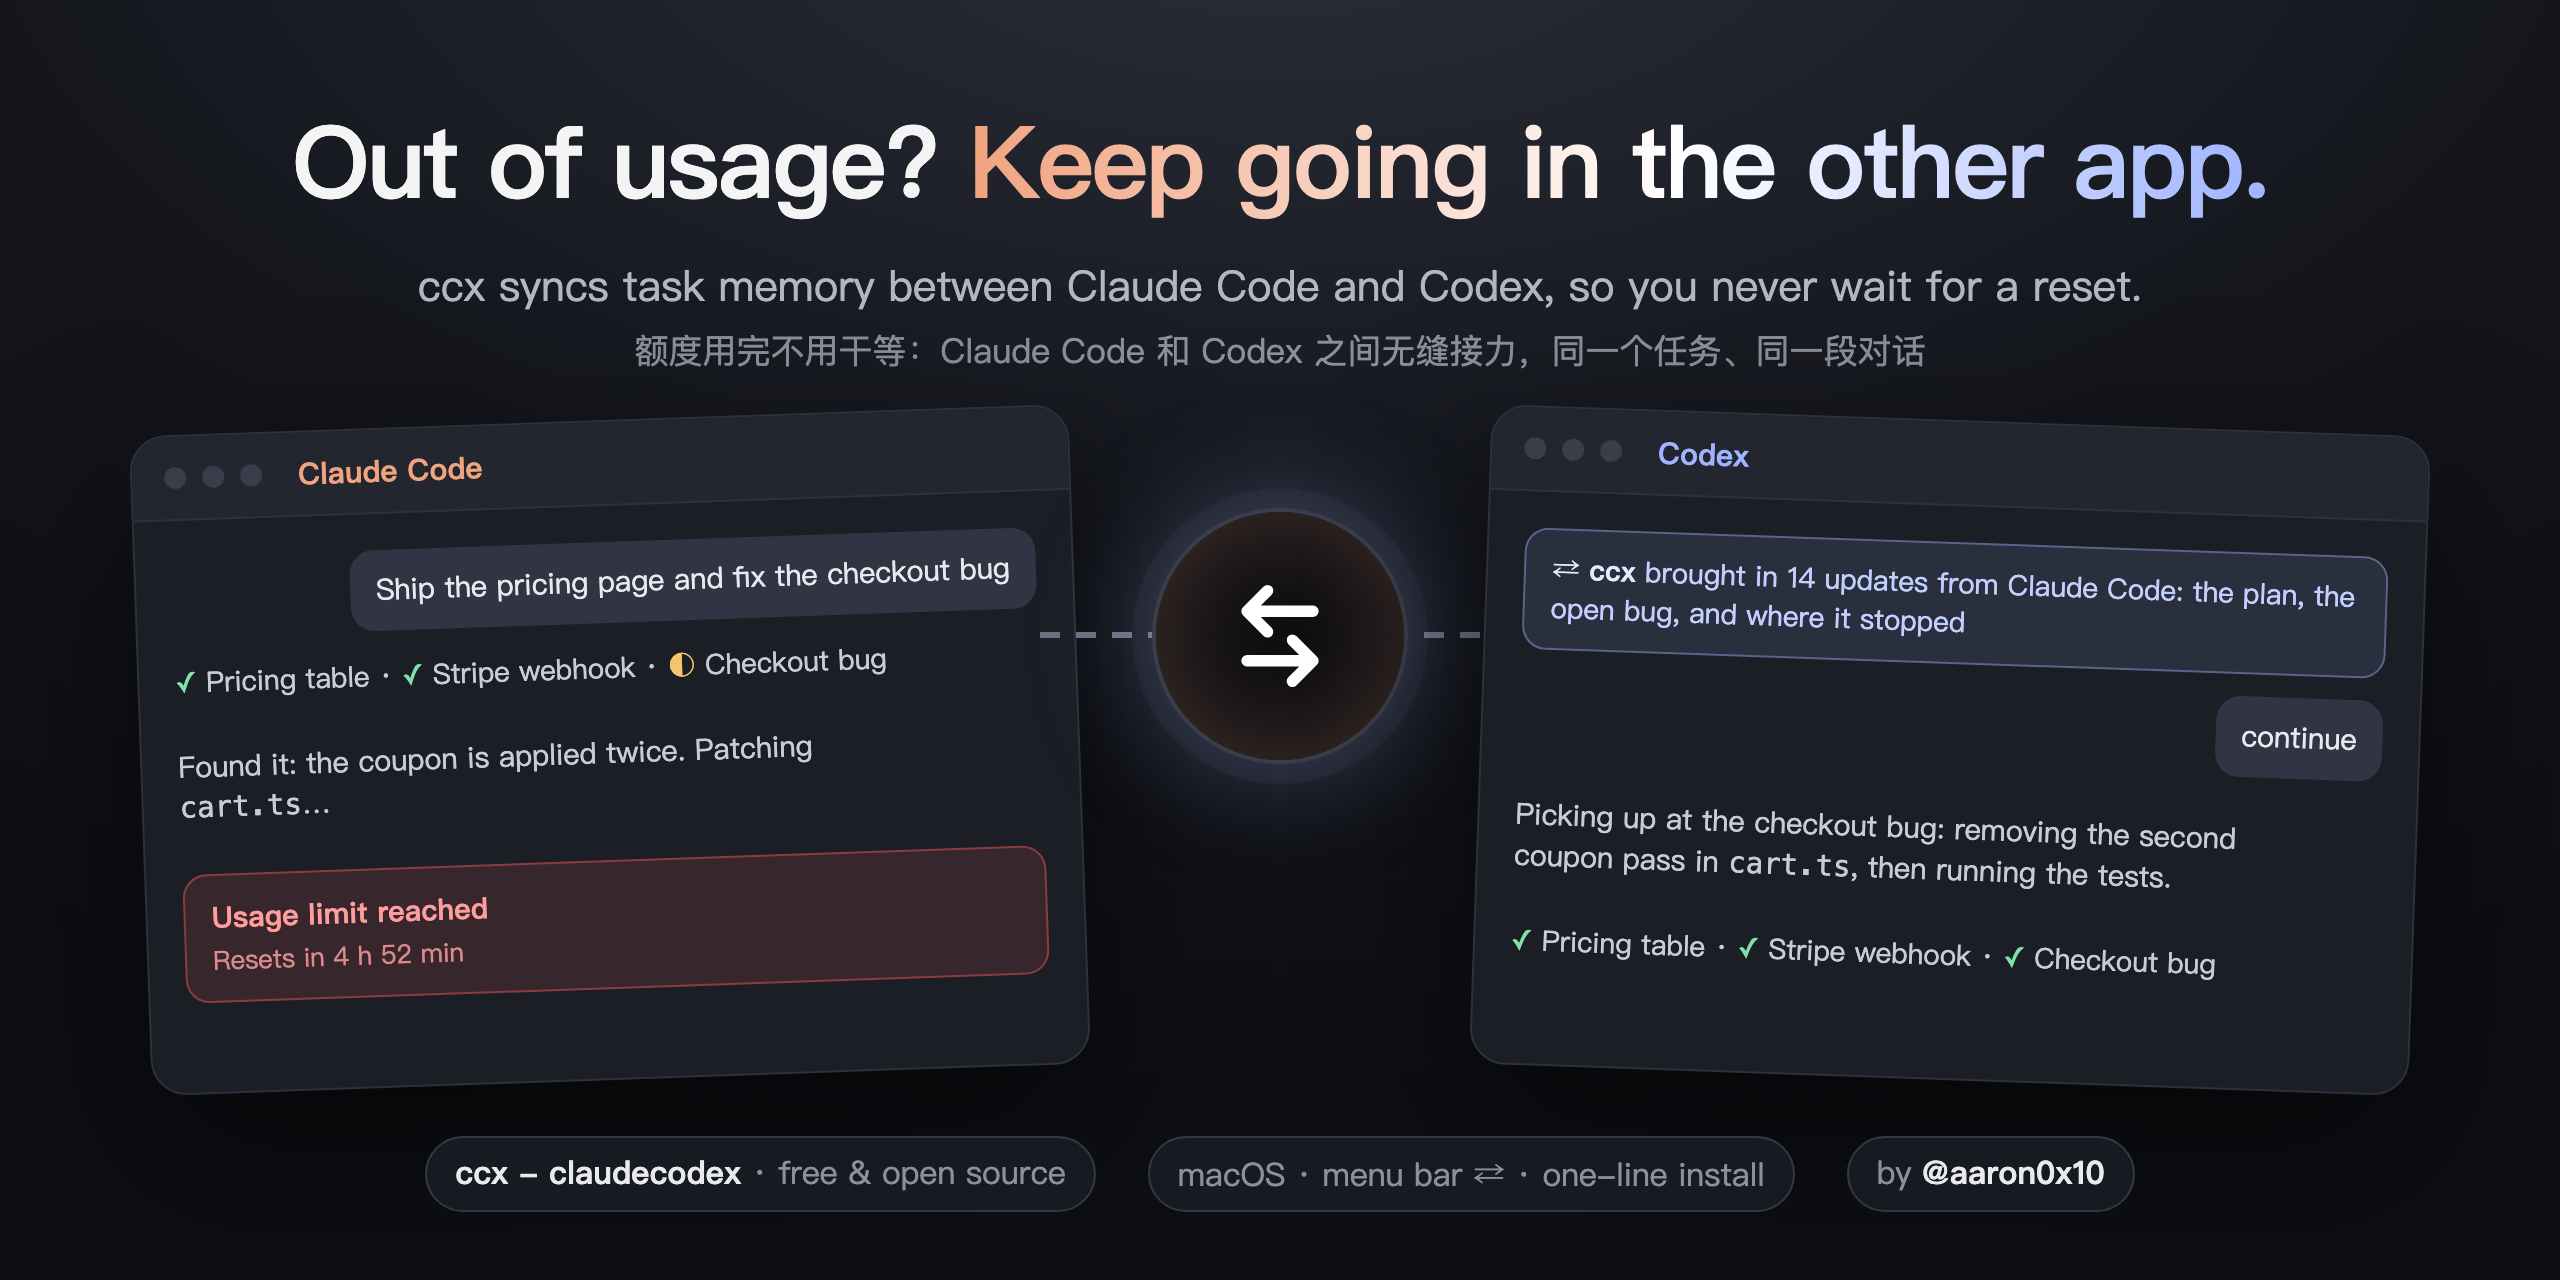
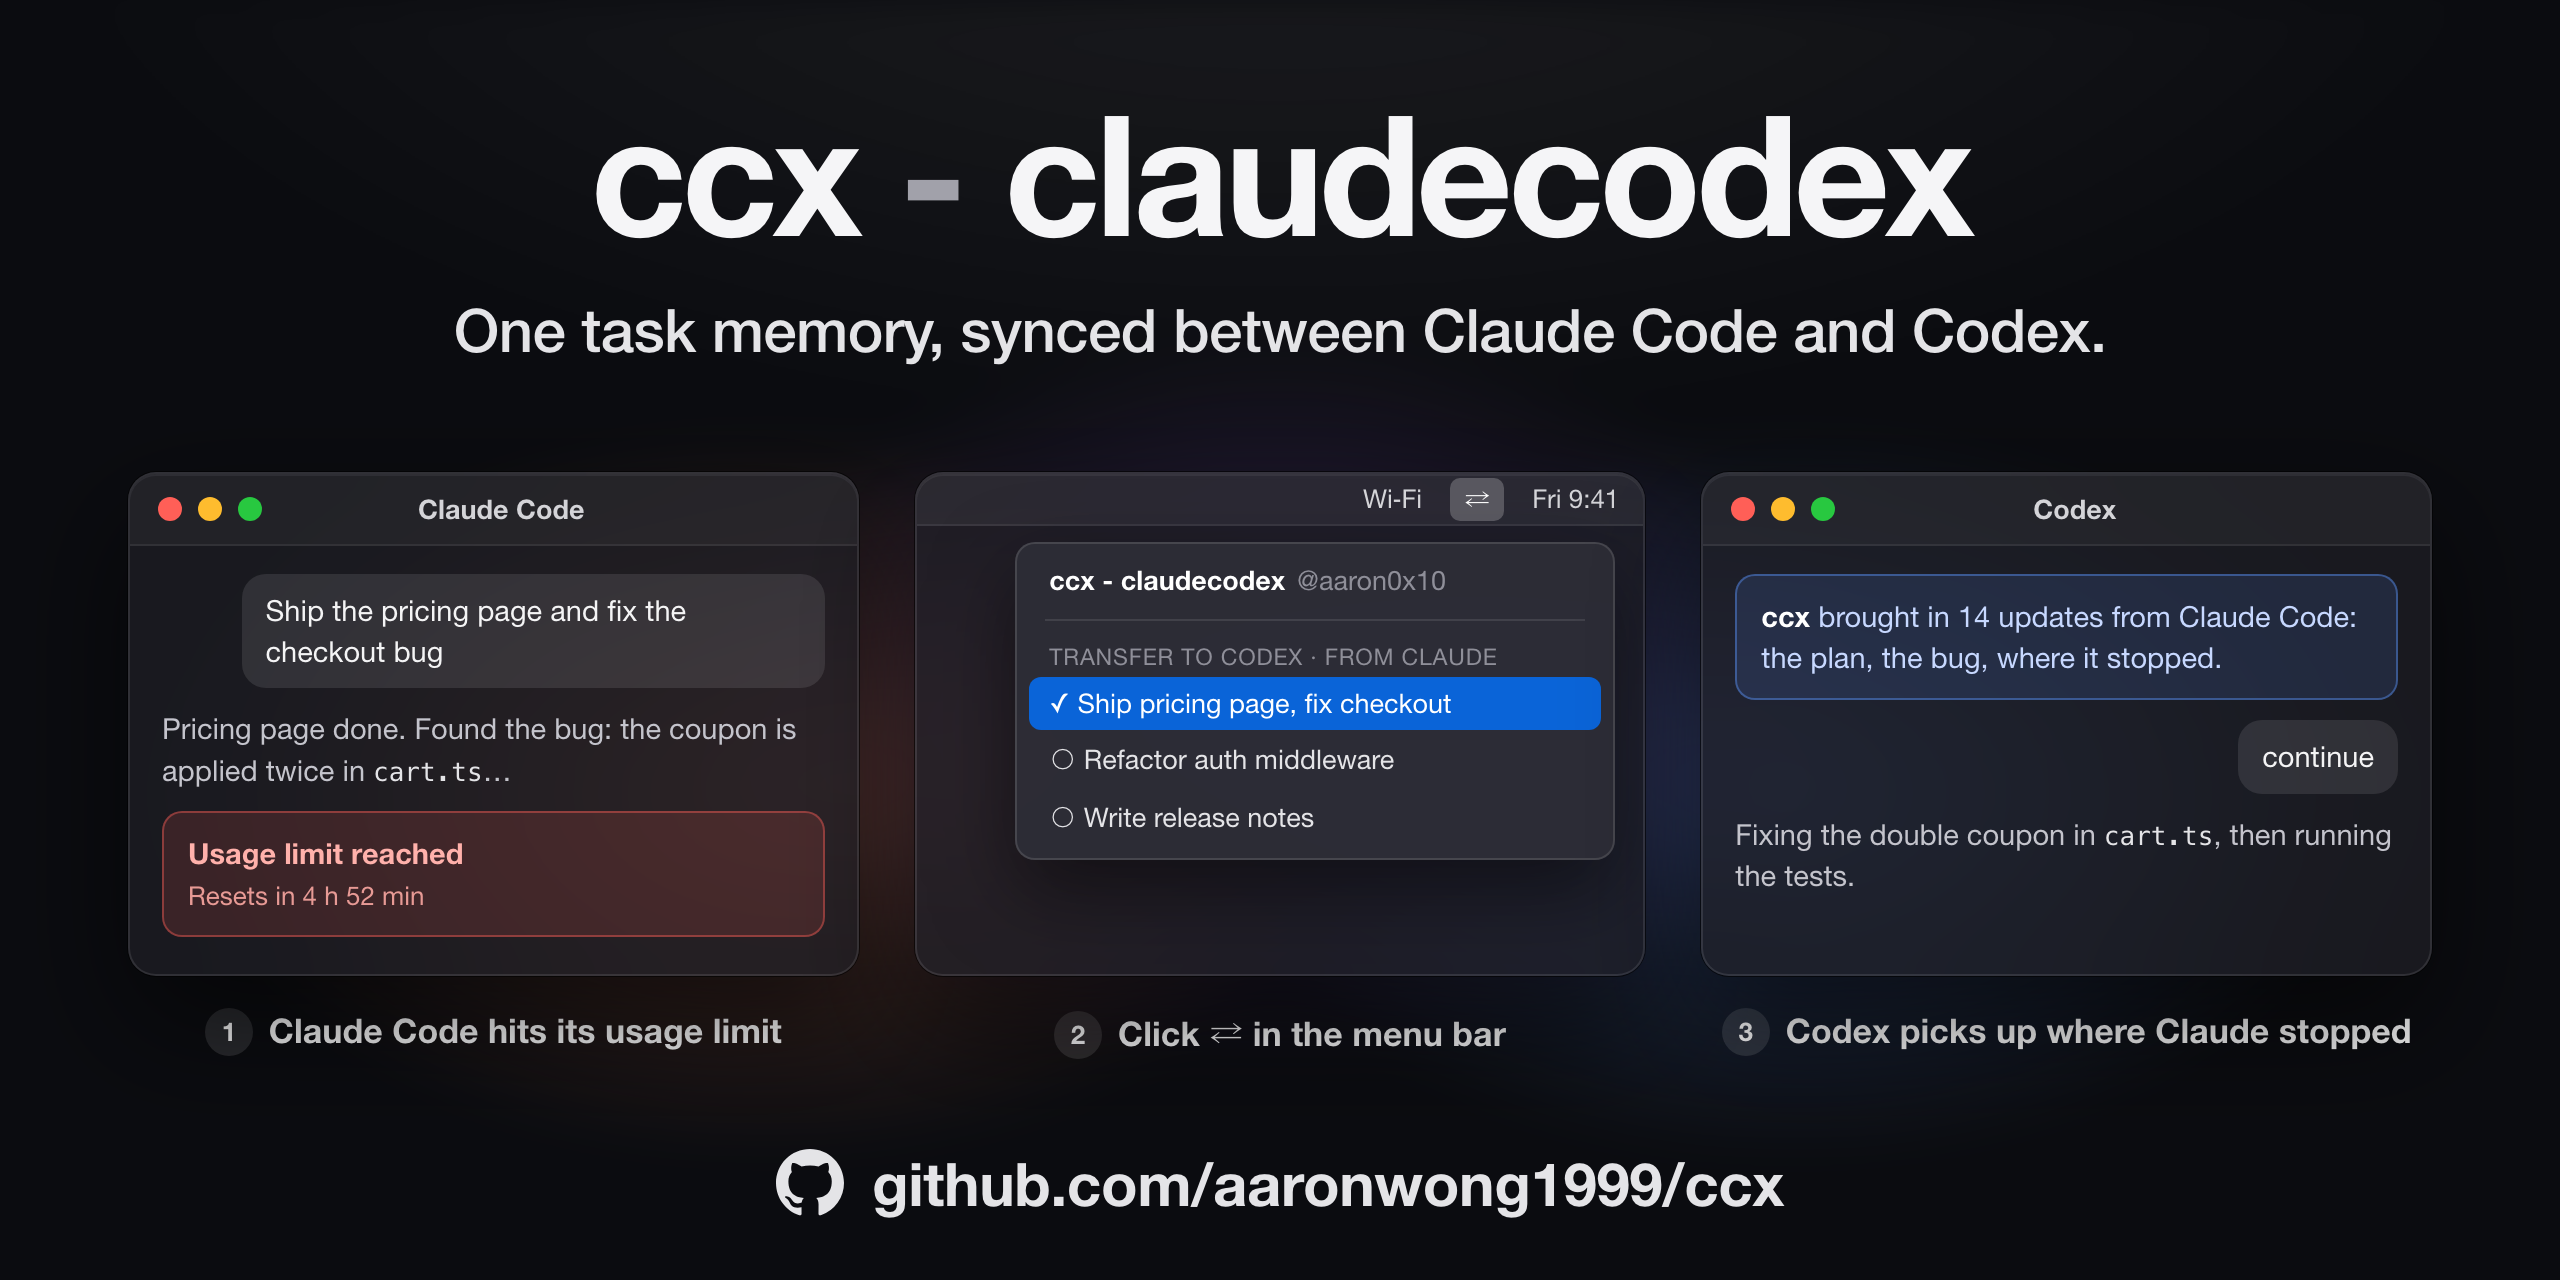
growth: Apple-style hero (name, slogan, three-step demo, big GitHub link); one slogan everywhere

diff --git a/docs/hero.html b/docs/hero.html
@@ -5,82 +5,113 @@
        --force-device-scale-factor=2 --window-size=1280,640 --screenshot=docs/hero.png docs/hero.html -->
 <style>
   * { box-sizing: border-box; margin: 0; padding: 0; }
-  body { width: 1280px; height: 640px; overflow: hidden; font-family: -apple-system, "SF Pro Display", "PingFang SC", sans-serif;
-         background: radial-gradient(1200px 600px at 50% -10%, #2b2f3a 0%, #14161c 55%, #0e0f13 100%); color: #f4f4f5; }
-  .top { position: absolute; top: 46px; left: 0; right: 0; text-align: center; }
-  .top h1 { font-size: 50px; font-weight: 800; letter-spacing: -1.2px; }
-  .top h1 span { background: linear-gradient(90deg, #f0a37f, #ffffff 55%, #9fb4ff); -webkit-background-clip: text; color: transparent; }
-  .top p { margin-top: 12px; font-size: 21px; color: #b4b7c2; }
-  .top p.zh { margin-top: 6px; font-size: 17px; color: #8c909c; }
+  body { width: 1280px; height: 640px; overflow: hidden; position: relative; color: #f5f5f7;
+         font-family: -apple-system, "SF Pro Display", "SF Pro Text", "Helvetica Neue", sans-serif;
+         background: #0b0c10; -webkit-font-smoothing: antialiased; }
+  .aurora { position: absolute; inset: 0;
+    background:
+      radial-gradient(420px 260px at 30% 62%, rgba(235, 128, 86, .30), transparent 70%),
+      radial-gradient(420px 260px at 50% 55%, rgba(170, 110, 255, .26), transparent 70%),
+      radial-gradient(420px 260px at 70% 62%, rgba(92, 150, 255, .30), transparent 70%),
+      radial-gradient(900px 400px at 50% -10%, rgba(255,255,255,.07), transparent 70%); filter: blur(10px); }
 
-  .win { position: absolute; top: 210px; width: 470px; height: 330px; border-radius: 18px; overflow: hidden;
-         background: #1c1e25; border: 1px solid #2e313b; box-shadow: 0 30px 80px rgba(0,0,0,.55); }
-  .left { left: 70px; transform: rotate(-2deg); }
-  .right { right: 70px; transform: rotate(2deg); }
-  .bar { height: 42px; display: flex; align-items: center; gap: 8px; padding: 0 16px; background: #23262f; border-bottom: 1px solid #2e313b; }
-  .dot { width: 11px; height: 11px; border-radius: 50%; background: #3a3e4a; }
-  .bar b { margin-left: 10px; font-size: 15px; font-weight: 650; }
-  .left .bar b { color: #f0a37f; } .right .bar b { color: #9fb4ff; }
-  .body { padding: 18px; display: flex; flex-direction: column; gap: 11px; font-size: 14.5px; line-height: 1.4; }
-  .msg { padding: 10px 13px; border-radius: 12px; max-width: 88%; }
-  .me { align-self: flex-end; background: #313543; color: #e8e9ee; }
-  .ai { background: transparent; color: #c9ccd6; padding-left: 0; }
-  .todo { color: #c9ccd6; font-size: 14px; line-height: 1.65; }
-  .todo i { font-style: normal; color: #7ee2a8; } .todo u { text-decoration: none; color: #f5c46b; }
-  .limit { margin-top: 2px; padding: 11px 13px; border-radius: 12px; background: rgba(239, 92, 92, .13); border: 1px solid rgba(239, 92, 92, .45);
-           color: #ff9c9c; font-weight: 600; font-size: 14.5px; }
-  .limit small { display: block; font-weight: 400; color: #d98a8a; font-size: 13px; margin-top: 2px; }
-  .sync { padding: 10px 13px; border-radius: 12px; background: rgba(159, 180, 255, .11); border: 1px solid rgba(159, 180, 255, .4); color: #c3d0ff; font-size: 14px; }
-  .sync b { color: #e3e9ff; }
+  header { position: absolute; top: 44px; left: 0; right: 0; text-align: center; }
+  h1 { font-size: 84px; font-weight: 800; letter-spacing: -2.6px; line-height: 1; }
+  h1 .dim { color: #a1a1aa; font-weight: 700; }
+  .slogan { margin-top: 18px; font-size: 30px; font-weight: 500; letter-spacing: -.3px; color: #e4e4e7; }
 
-  .hub { position: absolute; left: 50%; top: 318px; transform: translate(-50%, -50%); width: 128px; height: 128px; border-radius: 50%;
-         background: #0b0c10; border: 2px solid #3a3e4a; display: grid; place-items: center;
-         box-shadow: 0 0 0 10px rgba(255,255,255,.03), 0 0 60px rgba(159,180,255,.35), 0 0 60px rgba(240,163,127,.25) inset; }
-  .hub svg { width: 66px; height: 66px; }
-  .wire { position: absolute; top: 316px; height: 3px; width: 120px; background: repeating-linear-gradient(90deg, #6b7080 0 10px, transparent 10px 18px); }
-  .wire.l { left: 520px; } .wire.r { right: 520px; }
+  .row { position: absolute; top: 236px; left: 64px; right: 64px; display: flex; gap: 28px; }
+  .step { flex: 1; }
+  .win { height: 252px; border-radius: 14px; overflow: hidden; position: relative;
+         background: rgba(30, 31, 38, .72); backdrop-filter: blur(24px);
+         border: 1px solid rgba(255,255,255,.10);
+         box-shadow: 0 0 0 .5px rgba(0,0,0,.6), 0 24px 60px rgba(0,0,0,.55), inset 0 1px 0 rgba(255,255,255,.06); }
+  .bar { height: 36px; display: flex; align-items: center; padding: 0 14px; gap: 8px;
+         background: rgba(255,255,255,.04); border-bottom: 1px solid rgba(255,255,255,.07); }
+  .tl { width: 12px; height: 12px; border-radius: 50%; }
+  .r { background: #ff5f57; } .y { background: #febc2e; } .g { background: #28c840; }
+  .bar span.t { flex: 1; text-align: center; margin-right: 52px; font-size: 13.5px; font-weight: 600; color: #d4d4d8; }
+  .in { padding: 14px 16px; display: flex; flex-direction: column; gap: 10px; font-size: 14.5px; line-height: 1.42; }
+  .me { align-self: flex-end; max-width: 88%; padding: 8px 12px; border-radius: 12px; background: rgba(255,255,255,.10); color: #f4f4f5; }
+  .ai { color: #c4c4cc; }
+  .warn { padding: 10px 12px; border-radius: 10px; background: rgba(255, 95, 87, .14); border: 1px solid rgba(255, 95, 87, .42); color: #ffb1ab; font-weight: 600; }
+  .warn small { display: block; font-weight: 400; color: #e79a95; font-size: 13px; margin-top: 2px; }
+  .note { padding: 10px 12px; border-radius: 10px; background: rgba(92, 150, 255, .13); border: 1px solid rgba(92, 150, 255, .42); color: #c7d8ff; }
+  .note b { color: #fff; }
+  code { font-family: "SF Mono", Menlo, monospace; font-size: 13px; color: #e4e4e7; }
 
-  .foot { position: absolute; bottom: 34px; left: 0; right: 0; display: flex; justify-content: center; gap: 26px; font-size: 16px; color: #8c909c; }
-  .foot b { color: #e9eaee; font-weight: 700; }
-  .pill { padding: 6px 14px; border-radius: 999px; border: 1px solid #343846; background: #181a21; }
+  /* the menu bar step */
+  .menubar { height: 26px; display: flex; align-items: center; justify-content: flex-end; gap: 14px; padding: 0 12px;
+             background: rgba(255,255,255,.06); border-bottom: 1px solid rgba(255,255,255,.07); font-size: 13px; color: #d4d4d8; }
+  .menubar .x { padding: 1px 7px; border-radius: 5px; background: rgba(255,255,255,.22); color: #fff; font-weight: 700; }
+  .menu { margin: 8px 14px 0 auto; width: 300px; border-radius: 10px; padding: 6px; background: rgba(44, 45, 54, .92);
+          border: 1px solid rgba(255,255,255,.12); box-shadow: 0 16px 40px rgba(0,0,0,.5); font-size: 13.5px; }
+  .menu .h { padding: 4px 10px 6px; font-weight: 700; color: #fff; }
+  .menu .h i { font-style: normal; font-weight: 400; color: #8f8f99; margin-left: 6px; }
+  .menu .cap { padding: 6px 10px 3px; font-size: 11.5px; letter-spacing: .4px; color: #8f8f99; }
+  .menu .it { padding: 5px 10px; border-radius: 6px; color: #e4e4e7; }
+  .menu .sel { background: #0a64d8; color: #fff; }
+  .menu .sep { height: 1px; margin: 5px 8px; background: rgba(255,255,255,.1); }
+
+  .label { margin-top: 16px; text-align: center; font-size: 17px; font-weight: 600; color: #f4f4f5; }
+  .label em { font-style: normal; display: inline-grid; place-items: center; width: 24px; height: 24px; margin-right: 8px;
+              border-radius: 50%; background: rgba(255,255,255,.12); font-size: 13px; vertical-align: 1px; }
+
+  footer { position: absolute; bottom: 30px; left: 0; right: 0; display: flex; justify-content: center; align-items: center; gap: 14px;
+           font-size: 30px; font-weight: 600; letter-spacing: -.2px; color: #e4e4e7; }
+  footer svg { width: 34px; height: 34px; fill: #e4e4e7; }
 </style></head>
 <body>
-  <div class="top">
-    <h1>Out of usage? <span>Keep going in the other app.</span></h1>
-    <p>ccx syncs task memory between Claude Code and Codex, so you never wait for a reset.</p>
-    <p class="zh">额度用完不用干等：Claude Code 和 Codex 之间无缝接力，同一个任务、同一段对话</p>
-  </div>
+  <div class="aurora"></div>
 
-  <div class="win left">
-    <div class="bar"><span class="dot"></span><span class="dot"></span><span class="dot"></span><b>Claude Code</b></div>
-    <div class="body">
-      <div class="msg me">Ship the pricing page and fix the checkout bug</div>
-      <div class="todo"><i>✓</i> Pricing table · <i>✓</i> Stripe webhook · <u>◐</u> Checkout bug</div>
-      <div class="msg ai">Found it: the coupon is applied twice. Patching <code>cart.ts</code>…</div>
-      <div class="limit">Usage limit reached<small>Resets in 4 h 52 min</small></div>
+  <header>
+    <h1>ccx <span class="dim">-</span> claudecodex</h1>
+    <div class="slogan">One task memory, synced between Claude Code and Codex.</div>
+  </header>
+
+  <div class="row">
+    <div class="step">
+      <div class="win">
+        <div class="bar"><span class="tl r"></span><span class="tl y"></span><span class="tl g"></span><span class="t">Claude Code</span></div>
+        <div class="in">
+          <div class="me">Ship the pricing page and fix the checkout bug</div>
+          <div class="ai">Pricing page done. Found the bug: the coupon is applied twice in <code>cart.ts</code>…</div>
+          <div class="warn">Usage limit reached<small>Resets in 4 h 52 min</small></div>
+        </div>
+      </div>
+      <div class="label"><em>1</em>Claude Code hits its usage limit</div>
+    </div>
+
+    <div class="step">
+      <div class="win">
+        <div class="menubar"><span>Wi‑Fi</span><span class="x">⇄</span><span>Fri 9:41</span></div>
+        <div class="menu">
+          <div class="h">ccx - claudecodex<i>@aaron0x10</i></div>
+          <div class="sep"></div>
+          <div class="cap">TRANSFER TO CODEX · FROM CLAUDE</div>
+          <div class="it sel">✓  Ship pricing page, fix checkout</div>
+          <div class="it">○  Refactor auth middleware</div>
+          <div class="it">○  Write release notes</div>
+        </div>
+      </div>
+      <div class="label"><em>2</em>Click ⇄ in the menu bar</div>
+    </div>
+
+    <div class="step">
+      <div class="win">
+        <div class="bar"><span class="tl r"></span><span class="tl y"></span><span class="tl g"></span><span class="t">Codex</span></div>
+        <div class="in">
+          <div class="note"><b>ccx</b> brought in 14 updates from Claude Code: the plan, the bug, where it stopped.</div>
+          <div class="me">continue</div>
+          <div class="ai">Fixing the double coupon in <code>cart.ts</code>, then running the tests.</div>
+        </div>
+      </div>
+      <div class="label"><em>3</em>Codex picks up where Claude stopped</div>
     </div>
   </div>
 
-  <div class="wire l"></div><div class="wire r"></div>
-  <div class="hub">
-    <svg viewBox="0 0 64 64" fill="none" stroke="#fff" stroke-width="5.5" stroke-linecap="round" stroke-linejoin="round">
-      <path d="M48 20H16M26 10 16 20l10 10"/><path d="M16 44h32M38 34l10 10-10 10"/>
-    </svg>
-  </div>
-
-  <div class="win right">
-    <div class="bar"><span class="dot"></span><span class="dot"></span><span class="dot"></span><b>Codex</b></div>
-    <div class="body">
-      <div class="sync"><b>⇄ ccx</b> brought in 14 updates from Claude Code: the plan, the open bug, and where it stopped</div>
-      <div class="msg me">continue</div>
-      <div class="msg ai">Picking up at the checkout bug: removing the second coupon pass in <code>cart.ts</code>, then running the tests.</div>
-      <div class="todo"><i>✓</i> Pricing table · <i>✓</i> Stripe webhook · <i>✓</i> Checkout bug</div>
-    </div>
-  </div>
-
-  <div class="foot">
-    <span class="pill"><b>ccx - claudecodex</b> · free &amp; open source</span>
-    <span class="pill">macOS · menu bar ⇄ · one-line install</span>
-    <span class="pill">by <b>@aaron0x10</b></span>
-  </div>
+  <footer>
+    <svg viewBox="0 0 16 16"><path d="M8 0C3.58 0 0 3.58 0 8c0 3.54 2.29 6.53 5.47 7.59.4.07.55-.17.55-.38 0-.19-.01-.82-.01-1.49-2.01.37-2.53-.49-2.69-.94-.09-.23-.48-.94-.82-1.13-.28-.15-.68-.52-.01-.53.63-.01 1.08.58 1.23.82.72 1.21 1.87.87 2.33.66.07-.52.28-.87.51-1.07-1.78-.2-3.64-.89-3.64-3.95 0-.87.31-1.59.82-2.15-.08-.2-.36-1.02.08-2.12 0 0 .67-.21 2.2.82.64-.18 1.32-.27 2-.27.68 0 1.36.09 2 .27 1.53-1.04 2.2-.82 2.2-.82.44 1.1.16 1.92.08 2.12.51.56.82 1.27.82 2.15 0 3.07-1.87 3.75-3.65 3.95.29.25.54.73.54 1.48 0 1.07-.01 1.93-.01 2.2 0 .21.15.46.55.38A8.013 8.013 0 0016 8c0-4.42-3.58-8-8-8z"/></svg>
+    github.com/aaronwong1999/ccx
+  </footer>
 </body></html>

diff --git a/menubar/main.swift b/menubar/main.swift
@@ -274,7 +274,7 @@ final class App: NSObject, NSApplicationDelegate, NSMenuDelegate {
             .font: NSFont.systemFont(ofSize: 11), .foregroundColor: NSColor.secondaryLabelColor]))
         title.append(NSAttributedString(string: "@aaron0x10", attributes: [
             .font: NSFont.systemFont(ofSize: 11), .foregroundColor: NSColor.linkColor]))
-        title.append(NSAttributedString(string: "\n" + L("Sync task memory between Claude Code and Codex", "在 Claude Code 和 Codex 之间同步任务记忆"),
+        title.append(NSAttributedString(string: "\n" + L("One task memory, synced between Claude Code and Codex.", "同一份任务记忆，在 Claude Code 和 Codex 之间同步。"),
                                         attributes: [.font: NSFont.systemFont(ofSize: NSFont.smallSystemFontSize),
                                                      .foregroundColor: NSColor.secondaryLabelColor]))
         head.attributedTitle = title

diff --git a/README.md b/README.md
@@ -1,8 +1,10 @@
 <p align="center">
-  <img src="docs/hero.png" alt="ccx - claudecodex: when Claude Code runs out of usage, keep going in Codex with the same task and context, and back" width="100%">
+  <img src="docs/hero.png" alt="ccx - claudecodex: one task memory, synced between Claude Code and Codex. Claude Code hits its usage limit, click ⇄ in the menu bar, Codex picks up where Claude stopped." width="100%">
 </p>
 
 <h1 align="center">ccx - claudecodex</h1>
+
+<p align="center"><b>One task memory, synced between Claude Code and Codex.</b><br>同一份任务记忆，在 Claude Code 和 Codex 之间同步。</p>
 
 <p align="center">
   <b>Hit your Claude Code usage limit? Keep going in Codex. Codex runs out? Back to Claude.</b><br>
